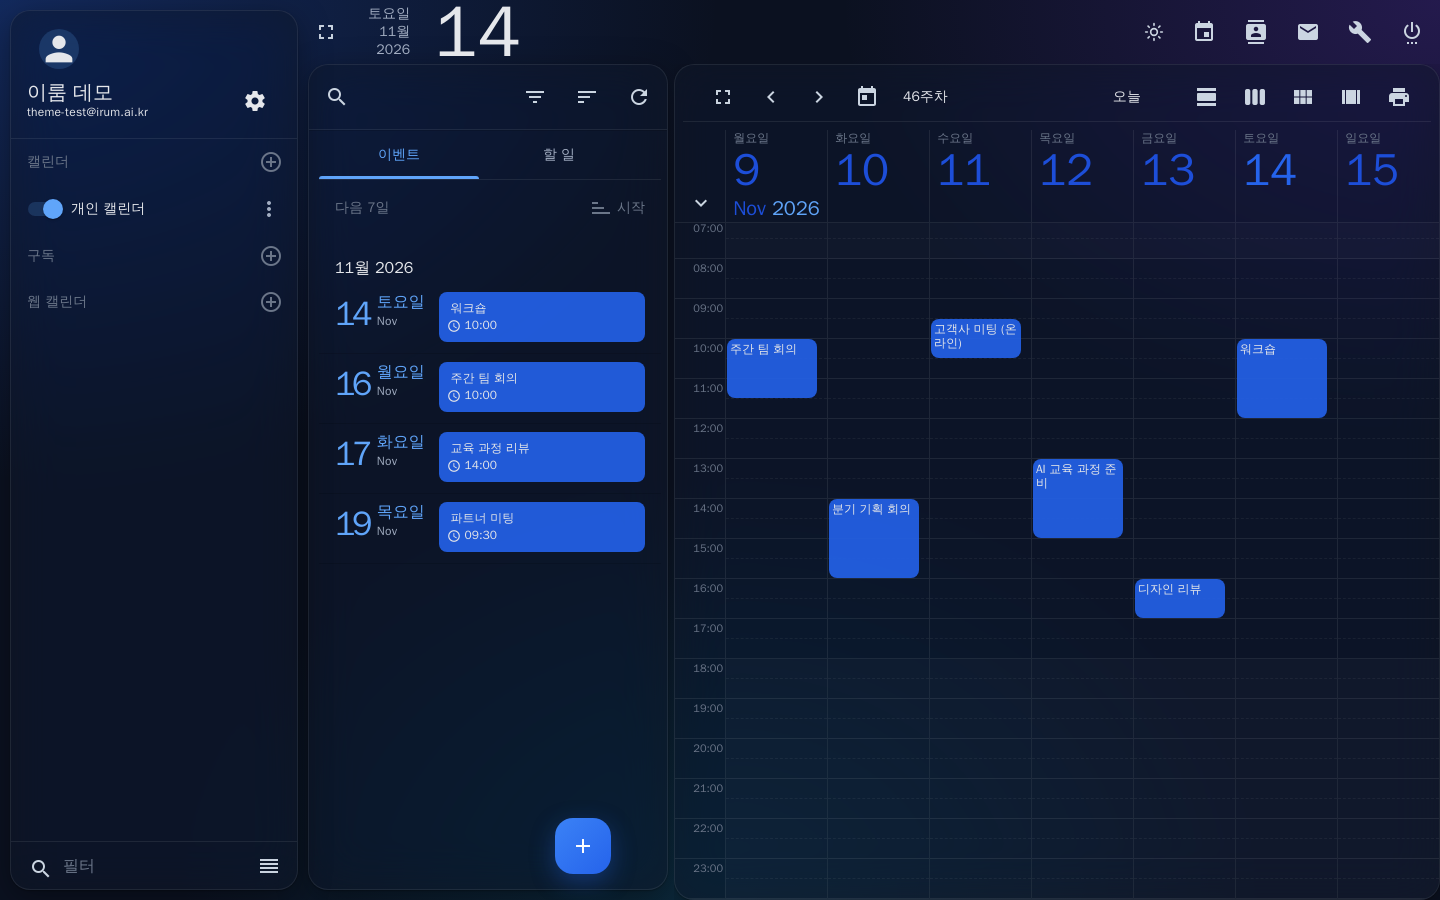
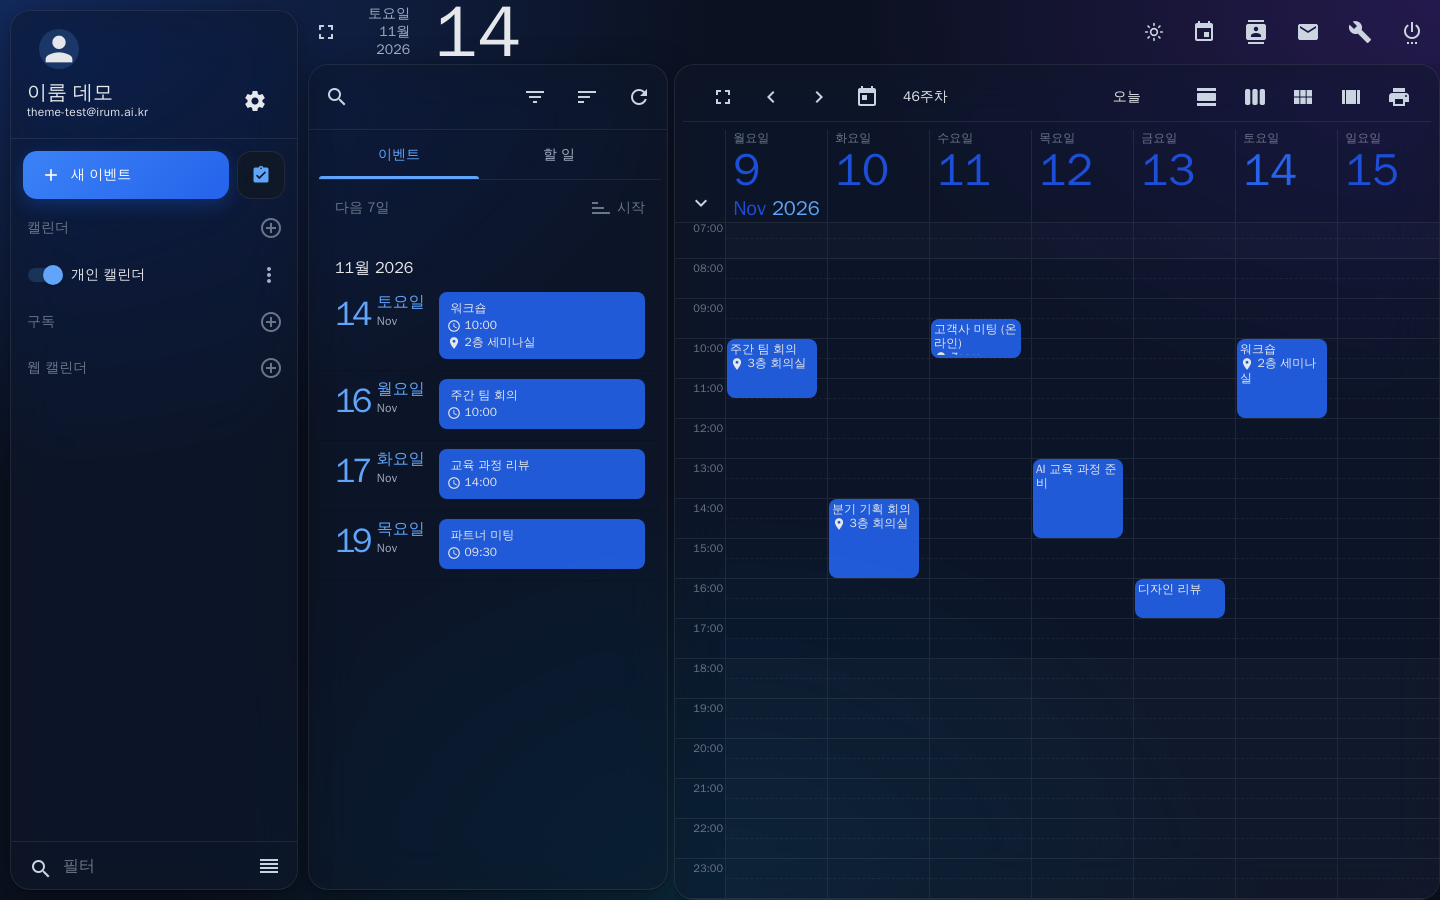
Sidebar create button and themed pop-ups
On wide screens (1280px+) the compose / new event / new contact button
moves from the bottom of the list to the top of the sidebar, with a small
second button for the other speed-dial choice. It clicks SOGo's own
button, so behaviour and permissions are unchanged; narrower screens
keep the round button.

Pop-ups now match the theme: opaque menus and dialogs, event editor
sections, date and time pickers, address suggestions, tooltips, dialog
buttons, and accent-colored radio buttons, checkboxes and sliders
instead of SOGo's default green. Desktop screenshots retaken.

diff --git a/soft-glass-theme.js b/soft-glass-theme.js
@@ -26,6 +26,7 @@
   var STORAGE_KEY = 'sogo_theme';
   var STYLE_ID = 'irum-glass-theme';
   var BTN_ID = 'irum-theme-toggle';
+  var CMP_ID = 'irum-side-compose';
 
   angular.module('SOGo.Common').config(configure).run(start);
 
@@ -102,6 +103,70 @@
     return !!group || narrow;
   }
 
+  // 넓은 화면(사이드바가 고정으로 열려 있을 때): 메일 쓰기 / 새 이벤트 / 새 연락처 버튼을
+  // 사이드바 맨 위에 둔다. SOGo 의 원래 버튼(목록 아래 둥근 버튼)을 그대로 눌러 주는 대리 버튼이라
+  // SOGo 의 동작과 권한 처리는 바뀌지 않는다. 원래 버튼은 CSS 로 넓은 화면에서만 숨긴다.
+  function currentFab() {
+    return document.querySelector('md-fab-speed-dial.sg-fab-bottom-center, .md-fab.sg-fab-bottom-center');
+  }
+  function fabActions(fab) {
+    if (!fab) return [];
+    if (fab.tagName.toLowerCase() !== 'md-fab-speed-dial') return [fab];   // 메일: 새 창 쓰기만 켠 경우 단일 버튼
+    return Array.prototype.slice.call(fab.querySelectorAll('md-fab-actions button'));
+  }
+  function iconOf(el) {
+    var i = el && el.querySelector('md-icon');
+    return i ? i.textContent.trim() : '';
+  }
+  function icon(name) {
+    var s = document.createElement('span');
+    s.className = 'material-icons'; s.setAttribute('aria-hidden', 'true'); s.textContent = name;
+    return s;
+  }
+  function syncCompose() {
+    var box = document.getElementById(CMP_ID);
+    if (!box) return;
+    var fab = currentFab();
+    var hidden = !fab || fab.classList.contains('ng-hide');
+    box.classList.toggle('ig-hidden', hidden);
+    document.documentElement.classList.toggle('ig-has-side-compose', !hidden);
+  }
+  function injectCompose() {
+    var side = document.querySelector('md-sidenav.md-sidenav-left');
+    var fab = currentFab();
+    if (!side || !fab) return false;
+    var acts = fabActions(fab);
+    if (!acts.length) return false;
+    var box = document.getElementById(CMP_ID);
+    if (!box || box.parentNode !== side) {
+      if (box) box.parentNode.removeChild(box);
+      box = document.createElement('div');
+      box.id = CMP_ID;
+      var trigger = fab.querySelector('md-fab-trigger button') || acts[0];
+      var main = document.createElement('button');
+      main.type = 'button'; main.className = 'ig-compose-main';
+      main.appendChild(icon(iconOf(trigger) || 'add'));
+      var label = document.createElement('span');
+      label.textContent = trigger.getAttribute('aria-label') || '';
+      main.appendChild(label);
+      main.addEventListener('click', function () { var a = fabActions(currentFab()); if (a[0]) a[0].click(); });
+      box.appendChild(main);
+      if (acts[1]) {
+        var alt = document.createElement('button');
+        alt.type = 'button'; alt.className = 'ig-compose-alt';
+        alt.title = acts[1].getAttribute('aria-label') || '';
+        alt.setAttribute('aria-label', alt.title);
+        alt.appendChild(icon(iconOf(acts[1])));
+        alt.addEventListener('click', function () { var a = fabActions(currentFab()); if (a[1]) a[1].click(); });
+        box.appendChild(alt);
+      }
+      var head = side.querySelector(':scope > md-toolbar');
+      side.insertBefore(box, head ? head.nextSibling : side.firstChild);
+    }
+    syncCompose();
+    return true;
+  }
+
   start.$inject = ['$timeout', '$rootScope'];
   function start($timeout, $rootScope) {
     injectStyle();
@@ -113,12 +178,16 @@
       var tries = 0;
       (function retry() {
         pending = null;
-        if (!injectToggle() && ++tries < 20) pending = $timeout(retry, 300, false);
+        var ok = injectToggle();
+        ok = injectCompose() && ok;
+        if (!ok && ++tries < 20) pending = $timeout(retry, 300, false);
       })();
     }
     ensureToggle();
     // 메일 폴더·주소록을 바꾸면 툴바가 새로 그려지면서 버튼도 지워지므로 다시 넣는다
     $rootScope.$on('$viewContentLoaded', function () { $timeout(ensureToggle, 0, false); });
+    // 주소록처럼 폴더 권한에 따라 원래 버튼이 숨겨지는 경우를 따라간다
+    $rootScope.$on('$stateChangeSuccess', function () { $timeout(syncCompose, 50, false); });
     // 창 크기가 바뀌어 좁은/넓은 화면이 바뀌면 버튼 자리를 옮긴다
     if (narrowQuery) {
       if (narrowQuery.addEventListener) narrowQuery.addEventListener('change', injectToggle);
@@ -155,6 +224,11 @@
     '  --ig-star: #f59e0b;',
     '  --ig-star-soft: rgba(245, 158, 11, 0.10);',
     '  --ig-shadow: 0 1px 2px rgba(15, 23, 42, 0.04), 0 8px 32px rgba(15, 23, 42, 0.08);',
+    '  --ig-popover: #ffffff;',
+    '  --ig-popover-solid: #ffffff;',
+    '  --ig-section: #f8fafc;',
+    '  --ig-pop-shadow: 0 12px 40px rgba(15, 23, 42, 0.18), 0 2px 6px rgba(15, 23, 42, 0.06);',
+    '  --ig-danger: #dc2626;',
     '  --ig-radius: 20px;',
     '  --ig-radius-sm: 12px;',
     '  --ig-blur: blur(24px) saturate(160%);',
@@ -181,6 +255,11 @@
     '  --ig-star: #fbbf24;',
     '  --ig-star-soft: rgba(251, 191, 36, 0.10);',
     '  --ig-shadow: 0 1px 2px rgba(0, 0, 0, 0.3), 0 8px 32px rgba(0, 0, 0, 0.35);',
+    '  --ig-popover: #131b2d;',
+    '  --ig-popover-solid: #131b2d;',
+    '  --ig-section: rgba(255, 255, 255, 0.035);',
+    '  --ig-pop-shadow: 0 16px 48px rgba(0, 0, 0, 0.55);',
+    '  --ig-danger: #f87171;',
     '}',
 
     /* ---------- 바탕 ---------- */
@@ -308,9 +387,9 @@
 
     /* ---------- 대화상자 · 메뉴 · 입력 ---------- */
     'html.irum-glass md-dialog, html.irum-glass md-menu-content, html.irum-glass md-select-menu, html.irum-glass md-select-menu md-content, html.irum-glass .md-open-menu-container {',
-    '  background: var(--ig-glass-strong) !important; color: var(--ig-text) !important;',
-    '  -webkit-backdrop-filter: var(--ig-blur); backdrop-filter: var(--ig-blur);',
-    '  border-radius: 16px !important; border: 1px solid var(--ig-glass-border);',
+    '  background: var(--ig-popover) !important; color: var(--ig-text) !important;',
+    '  -webkit-backdrop-filter: none; backdrop-filter: none;',
+    '  border-radius: 16px !important; border: 1px solid var(--ig-line); box-shadow: var(--ig-pop-shadow) !important;',
     '}',
     'html.irum-glass md-dialog { border-radius: var(--ig-radius) !important; box-shadow: 0 24px 64px rgba(15, 23, 42, 0.25) !important; }',
     'html.irum-glass md-dialog md-toolbar { border-bottom: 1px solid var(--ig-line); }',
@@ -325,6 +404,93 @@
     'html.irum-glass .md-button.md-raised.md-primary, html.irum-glass .md-button.md-raised.md-accent { background: var(--ig-accent) !important; color: #fff !important; border-radius: 10px !important; box-shadow: none !important; }',
     'html.irum-glass md-chips .md-chips { box-shadow: 0 1px 0 var(--ig-line) !important; }',
     'html.irum-glass md-chip { background: var(--ig-accent-softer) !important; color: var(--ig-text) !important; }',
+
+    /* ---------- 팝오버 · 대화상자 안쪽 ---------- */
+    /* 대화상자 제목줄의 큰 배경 아이콘(SOGo 장식)이 버튼과 겹친다 */
+    'html.irum-glass md-dialog .sg-icon-toolbar-bg { display: none !important; }',
+    /* 일정 편집 등의 구역: 두꺼운 회색 그림자 대신 옅은 바탕과 선 */
+    'html.irum-glass md-dialog .sg-form-section { background: var(--ig-section) !important; box-shadow: none !important; border: 1px solid var(--ig-line); border-radius: 14px; margin: 12px 16px !important; }',
+    'html.irum-glass md-dialog md-dialog-actions { border-top: 1px solid var(--ig-line); }',
+    /* 라디오 · 체크박스 · 슬라이더: SOGo 기본 초록 대신 포인트 색 */
+    'html.irum-glass md-radio-button .md-off, html.irum-glass md-checkbox:not(.md-checked) .md-icon { border-color: var(--ig-text-3) !important; }',
+    'html.irum-glass md-radio-button.md-checked .md-off { border-color: var(--ig-accent) !important; }',
+    'html.irum-glass md-radio-button .md-on { background-color: var(--ig-accent) !important; }',
+    'html.irum-glass md-checkbox.md-checked .md-icon { background-color: var(--ig-accent) !important; border-color: transparent !important; }',
+    'html.irum-glass md-checkbox.md-checked .md-icon:after { border-color: #fff !important; }',
+    'html.irum-glass md-checkbox .md-icon { border-radius: 5px !important; }',
+    'html.irum-glass md-radio-button .md-ripple, html.irum-glass md-checkbox .md-ripple { color: var(--ig-accent) !important; }',
+    'html.irum-glass md-slider .md-track { background-color: var(--ig-line) !important; }',
+    'html.irum-glass md-slider .md-track-fill, html.irum-glass md-slider .md-thumb:after, html.irum-glass md-slider .md-sign, html.irum-glass md-slider .md-sign:after { background-color: var(--ig-accent) !important; border-color: var(--ig-accent) !important; border-top-color: var(--ig-accent) !important; }',
+    'html.irum-glass md-slider.md-min .md-thumb:after { background-color: var(--ig-popover) !important; border-color: var(--ig-text-3) !important; }',
+    'html.irum-glass md-slider .md-focus-ring { background-color: var(--ig-accent-soft) !important; }',
+    /* 버튼: 회색 돌출 버튼과 주황 경고 글자 */
+    'html.irum-glass .md-button.md-raised:not(.md-primary):not(.md-accent):not(.md-warn):not(.md-fab) { background: var(--ig-accent-soft) !important; color: var(--ig-accent) !important; box-shadow: none !important; border-radius: 10px !important; }',
+    'html.irum-glass .md-button.md-warn:not(.md-raised):not(.md-fab) { color: var(--ig-danger) !important; }',
+    /* 대화상자 아래 버튼: 일반 버튼은 포인트 색 글자, 키보드 포커스·마우스 올림은 옅은 포인트 바탕 (기본은 회색) */
+    'html.irum-glass md-dialog md-dialog-actions .md-button:not(.md-warn):not([disabled]):not(.md-raised) { color: var(--ig-accent) !important; }',
+    'html.irum-glass .md-button:not(.md-fab):not(.md-raised):not(.md-icon-button).md-focused, html.irum-glass md-dialog md-dialog-actions .md-button:not(.md-raised):not(.md-fab):hover { background: var(--ig-accent-softer) !important; border-radius: 10px; }',
+    'html.irum-glass .md-button.md-raised.md-warn { background: var(--ig-danger) !important; color: #fff !important; box-shadow: none !important; border-radius: 10px !important; }',
+    /* 선택 목록 · 메뉴 */
+    'html.irum-glass md-option[selected], html.irum-glass md-option[selected] * { color: var(--ig-accent) !important; }',
+    'html.irum-glass md-option[selected] { background: var(--ig-accent-softer) !important; }',
+    'html.irum-glass md-select-menu md-content { border: 0 !important; box-shadow: none !important; }',
+    'html.irum-glass md-menu-divider { background-color: var(--ig-line) !important; }',
+    /* 주소 자동완성 목록 */
+    'html.irum-glass .md-autocomplete-suggestions-container, html.irum-glass .md-virtual-repeat-container.md-autocomplete-suggestions-container { background: var(--ig-popover) !important; border: 1px solid var(--ig-line); border-radius: 12px !important; box-shadow: var(--ig-pop-shadow) !important; overflow: hidden; }',
+    'html.irum-glass .md-autocomplete-suggestions li { color: var(--ig-text) !important; }',
+    'html.irum-glass .md-autocomplete-suggestions li:hover, html.irum-glass .md-autocomplete-suggestions li.selected { background: var(--ig-hover) !important; }',
+    /* 날짜 선택 달력 */
+    'html.irum-glass .md-datepicker-calendar-pane { background: var(--ig-popover) !important; border: 1px solid var(--ig-line) !important; border-radius: 14px !important; box-shadow: var(--ig-pop-shadow) !important; overflow: hidden; }',
+    /* 달력 판은 불투명하게 (뒤의 입력칸 글자가 비치지 않게). 입력칸 둘레 가림막도 같은 색 */
+    'html.irum-glass .md-datepicker-calendar, html.irum-glass .sg-timepicker-time, html.irum-glass .sg-timepicker-open .sg-timepicker-input-container, html.irum-glass .md-datepicker-open .md-datepicker-input-container { background: var(--ig-popover-solid) !important; color: var(--ig-text) !important; }',
+    'html.irum-glass .md-calendar, html.irum-glass .md-calendar-scroll-container { background: transparent !important; color: var(--ig-text) !important; }',
+    'html.irum-glass .md-datepicker-input-mask-opaque, html.irum-glass .sg-timepicker-input-mask-opaque { box-shadow: 0 0 0 9999px var(--ig-popover-solid) !important; }',
+    /* 시간 선택 */
+    'html.irum-glass .sg-timepicker-time-pane { border: 1px solid var(--ig-line) !important; border-radius: 14px !important; box-shadow: var(--ig-pop-shadow) !important; overflow: hidden; }',
+    'html.irum-glass .sg-time-scroll-mask { height: auto !important; max-height: 240px; background: transparent !important; }',
+    'html.irum-glass .sg-time-selection-indicator { color: var(--ig-text) !important; }',
+    'html.irum-glass .sg-timepicker-input { color: var(--ig-text) !important; }',
+    'html.irum-glass .sg-timepicker-input-container, html.irum-glass .md-datepicker-input-container { border-bottom-color: var(--ig-line) !important; }',
+    'html.irum-glass .sg-timepicker-focused .sg-timepicker-input-container, html.irum-glass .md-datepicker-focused.md-datepicker-input-container, html.irum-glass .md-datepicker-input-container.md-datepicker-focused { border-bottom-color: var(--ig-accent) !important; }',
+    'html.irum-glass .md-calendar td, html.irum-glass .md-calendar tr:last-child td, html.irum-glass .md-calendar-day-header, html.irum-glass .md-calendar-day-header th { border-color: var(--ig-line) !important; box-shadow: none !important; }',
+    /* 아래쪽 5분/1분 단위 전환 막대: 회색 바탕 → 선 하나, 버튼 아이콘이 흰 바탕에 흰색이라 안 보이던 것 */
+    'html.irum-glass .sg-time-pane > .layout-row.flex, html.irum-glass .sg-time-pane > div:has(> .toggleBtn) { background: transparent !important; border-top: 1px solid var(--ig-line); }',
+    'html.irum-glass .sg-time-pane .toggleBtn { background: var(--ig-accent-soft) !important; box-shadow: none !important; border: 0 !important; }',
+    'html.irum-glass .sg-time-pane .toggleBtn, html.irum-glass .sg-time-pane .toggleBtn md-icon { color: var(--ig-accent) !important; }',
+    'html.irum-glass .sg-time-selection-indicator:hover, html.irum-glass .sg-time-selection-indicator.md-focus { background: var(--ig-hover) !important; }',
+    'html.irum-glass .sg-time-selection-indicator.sg-time-selected, html.irum-glass .sg-time-selection-indicator.sg-time-selected:hover, html.irum-glass .sg-time-selection-indicator.md-focus.sg-time-selected { background: var(--ig-accent) !important; color: #fff !important; }',
+    'html.irum-glass .sg-timepicker-open .sg-timepicker-icon, html.irum-glass .md-datepicker-open .md-datepicker-calendar-icon { color: var(--ig-accent) !important; }',
+    'html.irum-glass .md-calendar-day-header { background: transparent !important; color: var(--ig-text-3) !important; border-bottom: 1px solid var(--ig-line); }',
+    'html.irum-glass .md-calendar-day-header th { color: var(--ig-text-3) !important; }',
+    'html.irum-glass .md-calendar-month-label { color: var(--ig-text-2) !important; font-weight: 600; }',
+    'html.irum-glass .md-calendar-date { color: var(--ig-text) !important; }',
+    'html.irum-glass .md-calendar-date.md-calendar-date-disabled, html.irum-glass .md-calendar-month-label.md-calendar-month-label-disabled { color: var(--ig-text-3) !important; }',
+    'html.irum-glass .md-calendar-date:not(.md-calendar-date-disabled) .md-calendar-date-selection-indicator:hover { background: var(--ig-hover) !important; }',
+    'html.irum-glass .md-calendar-date.md-calendar-date-today .md-calendar-date-selection-indicator { border: 1px solid var(--ig-accent) !important; color: var(--ig-accent) !important; }',
+    'html.irum-glass .md-calendar-date.md-calendar-selected-date .md-calendar-date-selection-indicator, html.irum-glass .md-calendar-date.md-focus.md-calendar-selected-date .md-calendar-date-selection-indicator { background: var(--ig-accent) !important; color: #fff !important; border-color: transparent !important; }',
+    'html.irum-glass .md-calendar-date.md-focus .md-calendar-date-selection-indicator { background: var(--ig-accent-soft) !important; }',
+    /* 말풍선 · 알림 */
+    'html.irum-glass md-tooltip .md-content { background: #1e293b !important; color: #f8fafc !important; border-radius: 8px !important; }',
+    'html.irum-glass.irum-dark md-tooltip .md-content { background: #e2e8f0 !important; color: #0f172a !important; }',
+    'html.irum-glass md-toast .md-toast-content { background: #1e293b !important; color: #f8fafc !important; border-radius: 12px !important; }',
+
+    /* ---------- 사이드바 맨 위 새로 만들기 버튼 (넓은 화면) ---------- */
+    '#' + CMP_ID + ' { display: none; gap: 8px; margin: 12px 12px 6px; flex: 0 0 auto; }',
+    '@media (min-width: 1280px) {',
+    '  #' + CMP_ID + ':not(.ig-hidden) { display: flex; }',
+    '  html.irum-glass.ig-has-side-compose md-fab-speed-dial.sg-fab-bottom-center:not(.sg-sidenav-close),',
+    '  html.irum-glass.ig-has-side-compose .md-fab.sg-fab-bottom-center:not(.sg-sidenav-close) { display: none !important; }',
+    '}',
+    '#' + CMP_ID + ' button { height: 48px; border-radius: 14px; cursor: pointer; display: inline-flex; align-items: center; font-family: var(--ig-font); }',
+    '#' + CMP_ID + ' .ig-compose-main { flex: 1 1 auto; min-width: 0; gap: 10px; padding: 0 18px; border: 0; color: #fff; font-size: 14px; font-weight: 600;',
+    '  background: linear-gradient(135deg, #3b82f6, #2563eb); box-shadow: 0 6px 18px rgba(37, 99, 235, 0.28); }',
+    '#' + CMP_ID + ' .ig-compose-main span:last-child { overflow: hidden; text-overflow: ellipsis; white-space: nowrap; }',
+    '#' + CMP_ID + ' .ig-compose-main:hover { filter: brightness(1.07); }',
+    '#' + CMP_ID + ' .ig-compose-alt { flex: 0 0 48px; width: 48px; justify-content: center; padding: 0; border: 1px solid var(--ig-line); background: var(--ig-glass-strong); color: var(--ig-accent); }',
+    '#' + CMP_ID + ' .ig-compose-alt:hover { background: var(--ig-accent-soft); }',
+    '#' + CMP_ID + ' .material-icons { font-size: 20px; }',
+    '#' + CMP_ID + ' button:focus-visible { outline: 2px solid var(--ig-accent); outline-offset: 2px; }',
+    '@media print { #' + CMP_ID + ' { display: none !important; } }',
 
     /* ---------- 메일 쓰기 ---------- */
     'html.irum-glass md-backdrop.md-dialog-backdrop { background-color: rgba(15, 23, 42, 0.18) !important; opacity: 1 !important; -webkit-backdrop-filter: blur(3px); backdrop-filter: blur(3px); }',

diff --git a/README.ko.md b/README.ko.md
@@ -28,10 +28,12 @@
 - **포인트 색 하나** — 선택, 안 읽은 메일(점과 굵은 글씨), 새 메일 버튼, 탭, 스위치, 진행 막대를 블루(`#2563EB`) 하나로 통일했습니다.
 - **메일 본문은 흰 종이** — HTML 뉴스레터의 원래 색을 그대로 보여 줍니다. 다크 모드에서도 본문과 편집기는 흰 종이로 둡니다.
 - **라이트 / 다크** — 처음에는 운영체제 설정을 따르고, 상단 툴바의 해/달 버튼으로 바꿀 수 있습니다. 선택은 브라우저에 저장됩니다.
+- **사이드바 맨 위 만들기 버튼** — 넓은 화면(1280px 이상)에서는 *새 메시지 작성*, *새 이벤트*, *새 연락처* 버튼이 목록 위에 떠 있지 않고 사이드바 맨 위에 있습니다. 옆의 작은 버튼은 두 번째 기능(새 창에서 쓰기, 새 할 일, 새 목록)입니다. 그보다 좁은 화면에서는 SOGo의 둥근 버튼을 그대로 씁니다.
 - **캘린더 정리** — SOGo 기본의 베이지 격자선과 초록 탭을 연한 선과 포인트 색으로 바꿨습니다.
+- **대화상자와 팝업** — 메뉴, 일정 편집 창, 날짜·시간 선택, 주소 자동완성, 말풍선이 라이트·다크 모드에서 같은 색을 씁니다. 라디오 버튼, 체크박스, 슬라이더에 남아 있던 SOGo 기본 초록색도 포인트 색으로 바꿨습니다.
 - **휴대폰 대응** — 좁은 화면에서 메일 보기가 목록 위에 겹쳐 뜰 때도 뒤가 비치지 않습니다.
 - **접근성과 호환** — 투명 효과를 줄이는 설정(`prefers-reduced-transparency`)을 켠 사용자와 흐림 효과를 지원하지 않는 브라우저에는 불투명 패널을 씁니다. 인쇄할 때는 배경 없이 흰 종이로 나옵니다.
-- **가벼움** — 외부 글꼴이나 이미지, 네트워크 요청이 없습니다. 스타일시트 하나와 버튼 하나를 추가할 뿐, 화면을 계속 감시하는 코드는 없습니다.
+- **가벼움** — 외부 글꼴이나 이미지, 네트워크 요청이 없습니다. 스타일시트 하나와 버튼 몇 개를 추가할 뿐, 화면을 계속 감시하는 코드는 없습니다.
 
 ## 설치 (mailcow)
 

diff --git a/README.md b/README.md
@@ -28,10 +28,12 @@ The sample messages, names and events in these screenshots are fictional.
 - **One accent color.** Selection, unread mail (dot and bold text), the compose button, tabs, switches and progress bars all use one blue (`#2563EB`).
 - **Message bodies stay on white paper.** HTML newsletters keep their own colors. In dark mode the message body and the editor stay white as well.
 - **Light and dark.** The theme follows the operating system at first. The sun/moon button in the top toolbar switches it, and the choice is saved in the browser.
+- **Create button at the top of the sidebar.** On wide screens (1280 px and up) *Write a new message*, *New Event* and *New Contact* sit at the top of the sidebar instead of floating over the list. The small button next to it runs the second choice (write in a new window, new task, new list). On narrower screens SOGo's round button stays.
 - **Cleaner calendar.** SOGo's beige grid lines and green tabs become faint lines and the accent color.
+- **Dialogs and pop-ups.** Menus, the event editor, date and time pickers, address suggestions and tooltips use the same colors in light and dark mode, and SOGo's leftover green on radio buttons, checkboxes and sliders is replaced by the accent.
 - **Mobile.** On narrow screens the message view slides over the list without the list showing through.
 - **Accessibility and fallbacks.** Users with `prefers-reduced-transparency` and browsers without `backdrop-filter` get opaque panels. Printing uses plain white paper.
-- **Lightweight.** No external fonts, images or network requests. The script adds one stylesheet and one button, and does not keep watching the page.
+- **Lightweight.** No external fonts, images or network requests. The script adds one stylesheet and a few buttons, and does not keep watching the page.
 
 ## Install on mailcow
 
